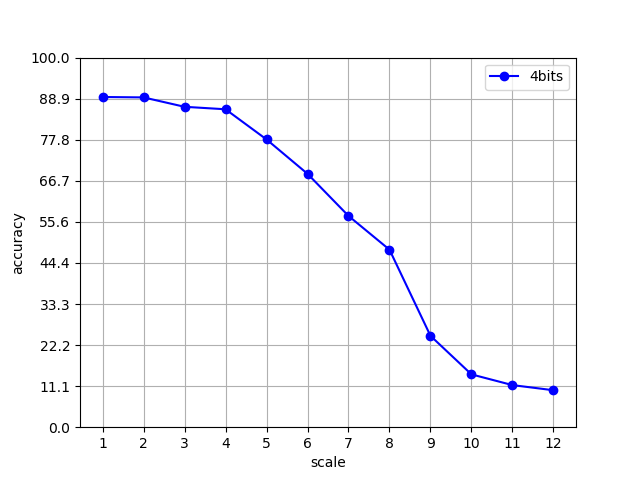
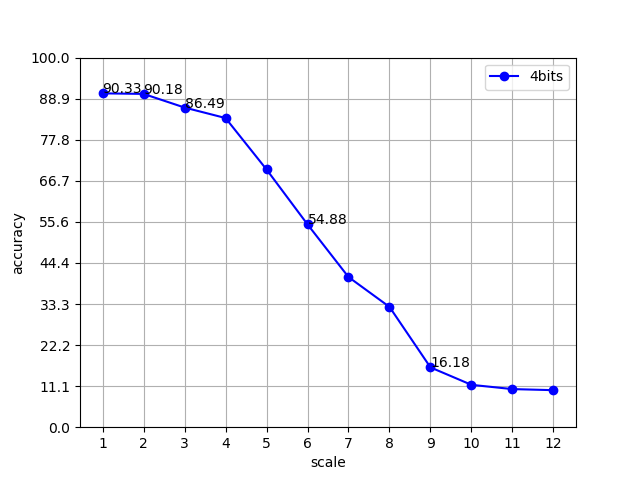
fix bug clamp_()

diff --git a/plt_result.py b/plt_result.py
@@ -2,8 +2,61 @@ import matplotlib.pyplot as plt
 import time
 import numpy as np
 
-acc = [89.339, 89.229, 86.689, 86.0199, 77.860, 68.559, 57.169, 48.029, 24.719, 14.289, 11.389, 10]
-scale = [1, 2, 3, 4, 5, 6, 7, 8, 9, 10, 11, 12] # clock比例
+"""
+with n_scale : 1
+100%|##########################################################################| 10000/10000 [02:44<00:00, 60.70it/s]
+test accuracy: 9033/10000 = 90.32999420166016%
+
+with n_scale : 2
+100%|##########################################################################| 10000/10000 [02:45<00:00, 60.45it/s]
+test accuracy: 9018/10000 = 90.18000030517578%
+
+with n_scale : 3
+100%|##########################################################################| 10000/10000 [02:45<00:00, 60.57it/s]
+test accuracy: 8649/10000 = 86.48999786376953%
+
+with n_scale : 4
+100%|##########################################################################| 10000/10000 [02:45<00:00, 60.26it/s]
+test accuracy: 8365/10000 = 83.6500015258789%
+
+with n_scale : 5
+100%|##########################################################################| 10000/10000 [02:45<00:00, 60.55it/s]
+test accuracy: 6974/10000 = 69.73999786376953%
+
+with n_scale : 6
+100%|##########################################################################| 10000/10000 [02:49<00:00, 59.15it/s]
+test accuracy: 5488/10000 = 54.87999725341797%
+
+with n_scale : 7
+100%|##########################################################################| 10000/10000 [02:47<00:00, 59.63it/s]
+test accuracy: 4063/10000 = 40.62999725341797%
+
+with n_scale : 8
+100%|##########################################################################| 10000/10000 [02:48<00:00, 59.50it/s]
+test accuracy: 3255/10000 = 32.54999923706055%
+
+with n_scale : 9
+100%|##########################################################################| 10000/10000 [02:48<00:00, 59.26it/s]
+test accuracy: 1618/10000 = 16.18000030517578%
+
+with n_scale : 10
+100%|##########################################################################| 10000/10000 [02:45<00:00, 60.36it/s]
+test accuracy: 1146/10000 = 11.460000038146973%
+
+with n_scale : 11
+100%|##########################################################################| 10000/10000 [02:43<00:00, 61.01it/s]
+test accuracy: 1031/10000 = 10.309999465942383%
+
+with n_scale : 12
+100%|##########################################################################| 10000/10000 [02:43<00:00, 61.01it/s]
+test accuracy: 1002/10000 = 10.019999504089355%
+
+"""
+
+acc = [90.329, 90.180, 86.489, 83.650, 69.739, 54.879, 40.629, 32.549, 16.180, 11.460, 10.309, 10.019]
+scale = [   1,      2,      3,      4,      5,      6,      7,      8,      9,     10,     11,     12] # clock比例
+
+show_id = [0,1,2,5,8]
 
 plt.plot(scale, acc, "bo-", label="4bits")
 plt.xlabel("scale")
@@ -11,6 +64,9 @@ plt.xticks(np.linspace(1,12,12))
 plt.ylabel("accuracy")
 plt.yticks(np.linspace(0,100, 10))
 plt.ylim(0,100)
+
+for index in show_id:
+	plt.text(scale[index], acc[index], str(round(acc[index], 2)))
 
 plt.legend()
 

diff --git a/quan_utils.py b/quan_utils.py
@@ -408,10 +408,10 @@ def bit_shift(x, keep_bits_num):
     x = torch.floor(x/(2**(shift)))
     return x, shift
 
-def ScalebyM(x, M, shift):
+def ScalebyM(x, M, shift, bits_num):
     # x = M*x
     x = M*x*(2**(shift))
-    x.clamp_(0, 7).round_()
+    x.clamp_(0, 2**(bits_num)-1).round_()
     return x
     
 def get_M(stats, s2, this_layer, prvs_layer, num_bits):
@@ -508,7 +508,7 @@ def bit_conv_layer(x, model_layer, stats, num_bits, n_scale, this_layer, prvs_la
     
     # x, shift = bit_shift(x, keep_bits_num=num_bits) # bit-shift
     # shift = 0
-    x = ScalebyM(x, M, shift=0) # mulipy M # Scaling
+    x = ScalebyM(x, M, shift=0, bits_num=num_bits) # mulipy M # Scaling
 
     return x, scale_factors_record
 
